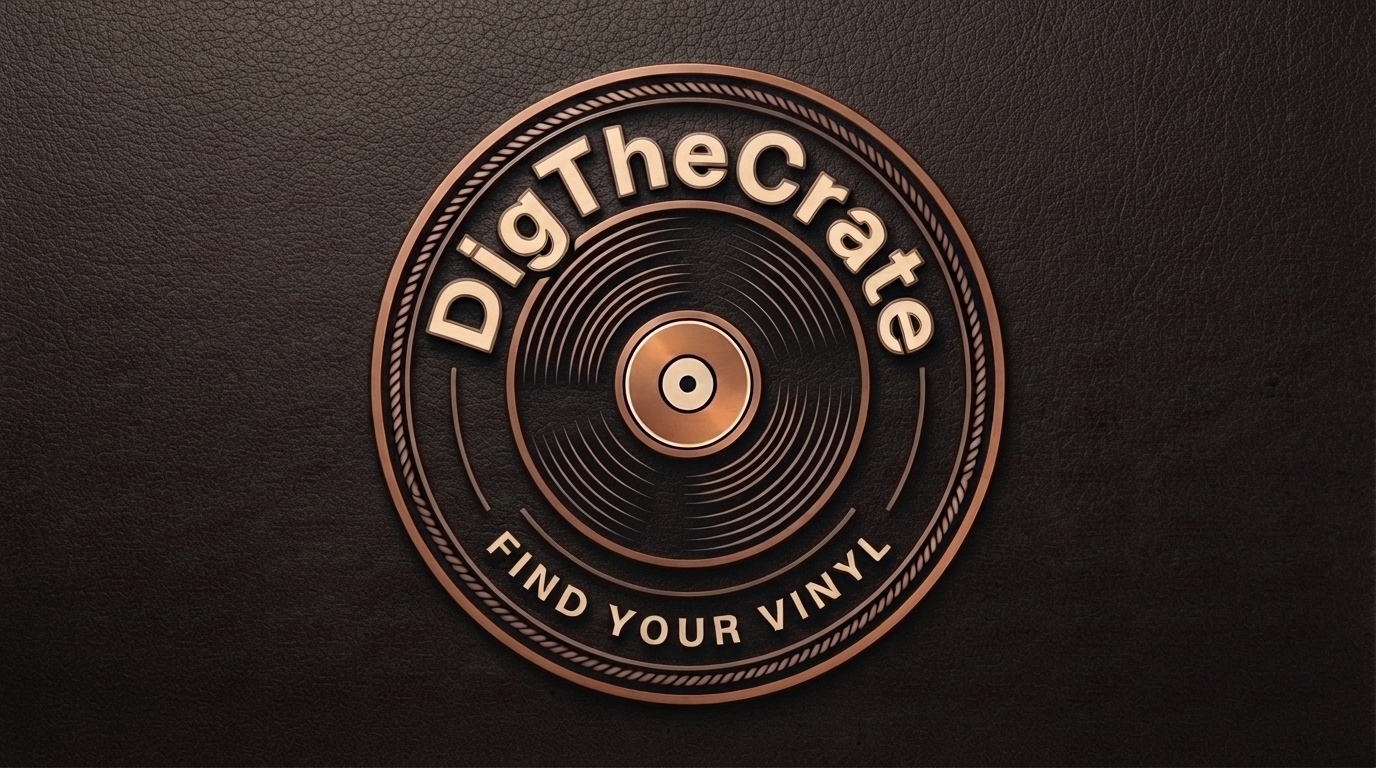
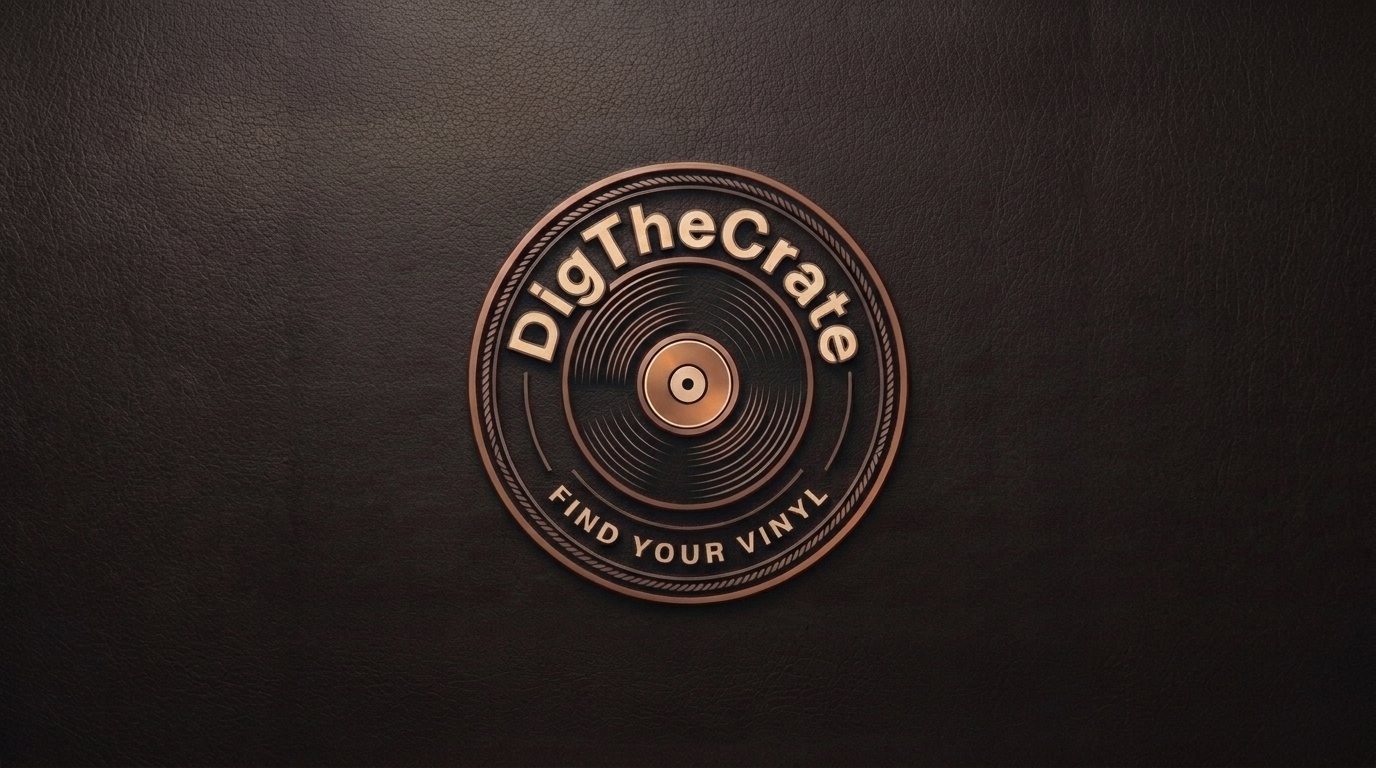
docs: README 배너 이미지 16:9 비율로 교체

Changed region(s): [[0.0, 0.0, 0.9375, 0.9375]]

diff --git a/README.md b/README.md
@@ -1,4 +1,4 @@
-## 🎵 Dig The Crate | Find your Vinyl
+## 🎵 Dig The Crate
 
 ![banner](./docs/readme-assets/banner.png)
 